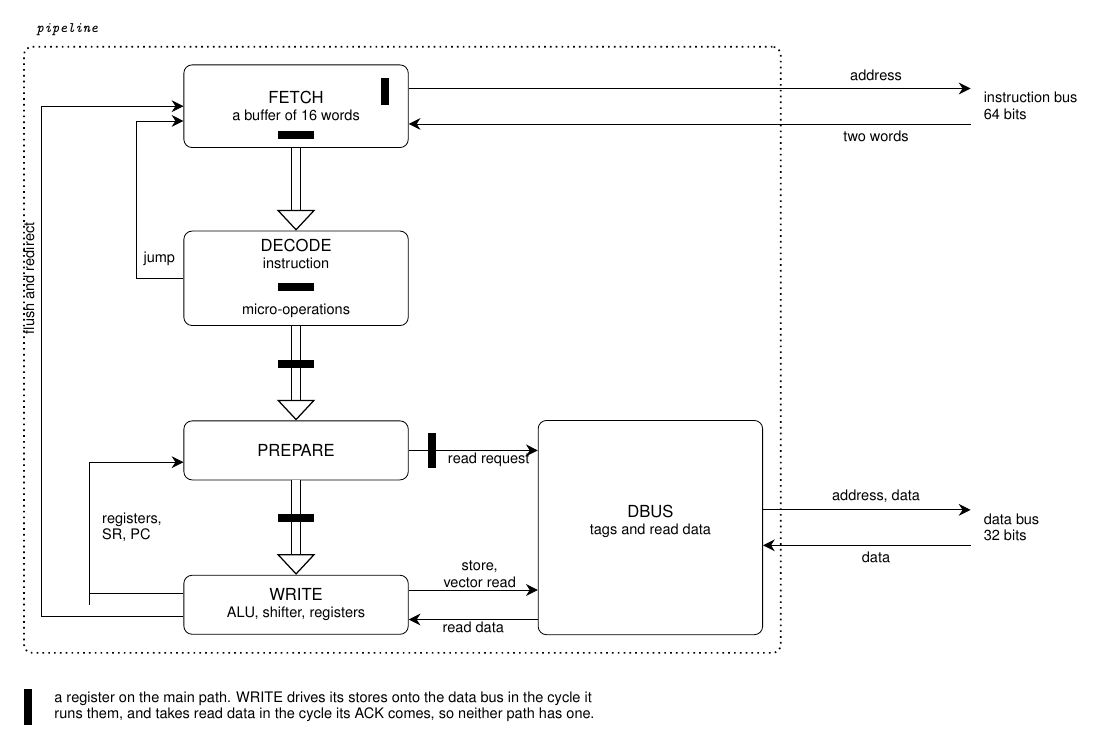
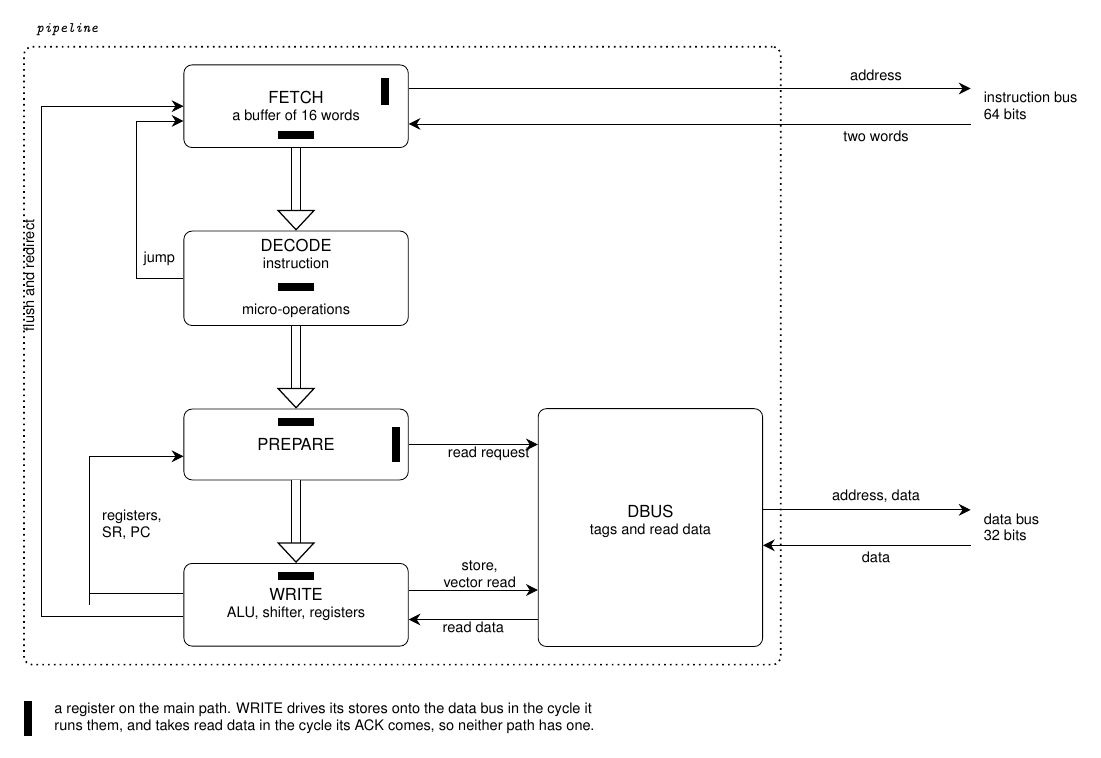
nicehdl: draw each register of the block diagram in its own entity
prep_r and w_r.uop were drawn on the arrows into PREPARE and WRITE,
which made them look like the outputs of DECODE and PREPARE. Each bar
now sits inside the block of the entity that holds it, and the read
request inside PREPARE.

diff --git a/doc/pipeline.tex b/doc/pipeline.tex
@@ -11,22 +11,24 @@
 % PREPARE's reads of the registers that WRITE holds. It does not show the
 % handshakes, the interrupt ports, or the trace report.
 %
-% The short black bars are the registers on the main path, each where the
-% signal it holds leaves:
+% The short black bars are the registers on the main path. Each is drawn
+% inside the block of the entity that holds it, at the edge where its
+% value comes in or leaves:
 %
 %   FETCH, on the instruction address          req_r and stb_r (pipe_fetch)
 %   FETCH, at its output                       ring_r (pipe_fetch)
-%   DECODE, inside, between taking an          dec_r (pipe_decode)
-%     instruction and splitting it
-%   DECODE, at its output                      prep_r (pipe_prepare)
-%   PREPARE, at its output to WRITE            w_r.uop (pipe_write)
+%   DECODE, between taking an instruction      dec_r (pipe_decode)
+%     and splitting it
+%   PREPARE, at its input                      prep_r (pipe_prepare)
 %   PREPARE, on its read request               rd_stb_r, rd_addr_r (pipe_prepare)
+%   WRITE, at its input                        w_r.uop (pipe_write)
 %
-% A register belongs to the entity that names it, which is not always the
-% stage it follows: DECODE's output is PREPARE's prep_r, and PREPARE's is
-% WRITE's w_r.uop. WRITE's store and DBUS have none: WRITE drives its
-% store onto the bus in the cycle it runs, and the read data reaches WRITE
-% in the cycle its ACK comes, past DBUS's FIFO.
+% So no register sits between two blocks: the words from ring_r reach
+% dec_r, the micro-operation from dec_r reaches prep_r, and the one from
+% prep_r reaches w_r.uop, each through logic only. WRITE's store and DBUS
+% have no register: WRITE drives its store onto the bus in the cycle it
+% runs, and the read data reaches WRITE in the cycle its ACK comes, past
+% DBUS's FIFO.
 
 \documentclass[border=8pt]{standalone}
 
@@ -82,8 +84,10 @@
          minimum height = 16mm]           (decode)  {DECODE\\[-0.5mm]
                                                      {\scriptsize instruction}\\[4.5mm]
                                                      {\scriptsize micro-operations}};
-   \node[block, below = 16mm of decode]   (prepare) {PREPARE};
-   \node[block, below = 16mm of prepare]  (write)   {WRITE\\[-0.5mm]
+   \node[block, below = 14mm of decode,
+         minimum height = 12mm]           (prepare) {PREPARE};
+   \node[block, below = 14mm of prepare,
+         minimum height = 14mm]           (write)   {WRITE\\[-0.5mm]
                                                      {\scriptsize ALU, shifter, registers}};
 
    \draw[flow] (fetch)   -- (decode);
@@ -179,14 +183,14 @@
 
    % FETCH's ring, at the bottom of its block, DECODE's dec_r, between the
    % instruction it takes and the micro-operations it emits, and PREPARE's
-   % prep_r and WRITE's w_r.uop, on the arrows into theirs
+   % prep_r and WRITE's w_r.uop, at the top of theirs
    \node[ffh] at ([yshift = 2.2mm] fetch.south) {};
    \node[ffh] at ([yshift = -1.5mm] decode.center) {};
-   \node[ffh] at ($ (decode.south)!0.4!(prepare.north) $) {};
-   \node[ffh] at ($ (prepare.south)!0.4!(write.north) $) {};
+   \node[ffh] at ([yshift = -2.2mm] prepare.north) {};
+   \node[ffh] at ([yshift = -2.2mm] write.north) {};
 
-   % PREPARE's read request
-   \node[ffv] at ([xshift = 4mm] prepare.east) {};
+   % PREPARE's read request, at the right of its block
+   \node[ffv] at ([xshift = -2.2mm] prepare.east) {};
 
    %% ---------------------------------------------------------------
    %% Legend
